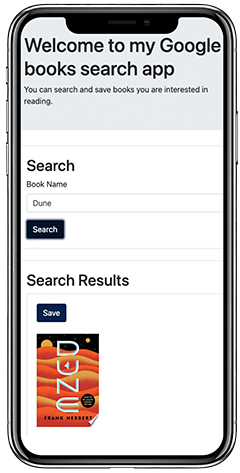
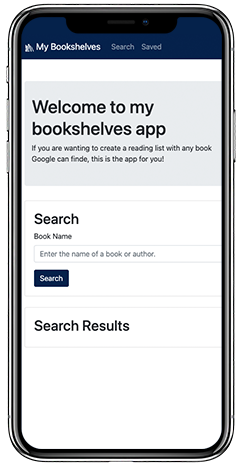
Commented out Bookshelves component inside Work component due to app not fully functioning. Will add back once I fix service worker error.

diff --git a/src/components/Work/index.js b/src/components/Work/index.js
@@ -20,9 +20,9 @@ function Work() {
       <div className="flex flex-col md:flex-row justify-between items-center w-11/12">
         <Progressing />
       </div>
-      <div className="flex flex-col md:flex-row justify-between items-center w-11/12">
+      {/* <div className="flex flex-col md:flex-row justify-between items-center w-11/12">
         <Bookshelves />
-      </div>
+      </div> */}
     </div>
   );
 }

diff --git a/src/content/index.js b/src/content/index.js
@@ -39,7 +39,7 @@ export default {
     projectName: "My Bookshelves",
     img: bookshelves,
     imgPlaceholder: bookshelves,
-    desc: "Bookshelves description.",
+    desc: "A single page app that lets you search for any book on Google.",
   },
   stack: {
     title: "Stack",
